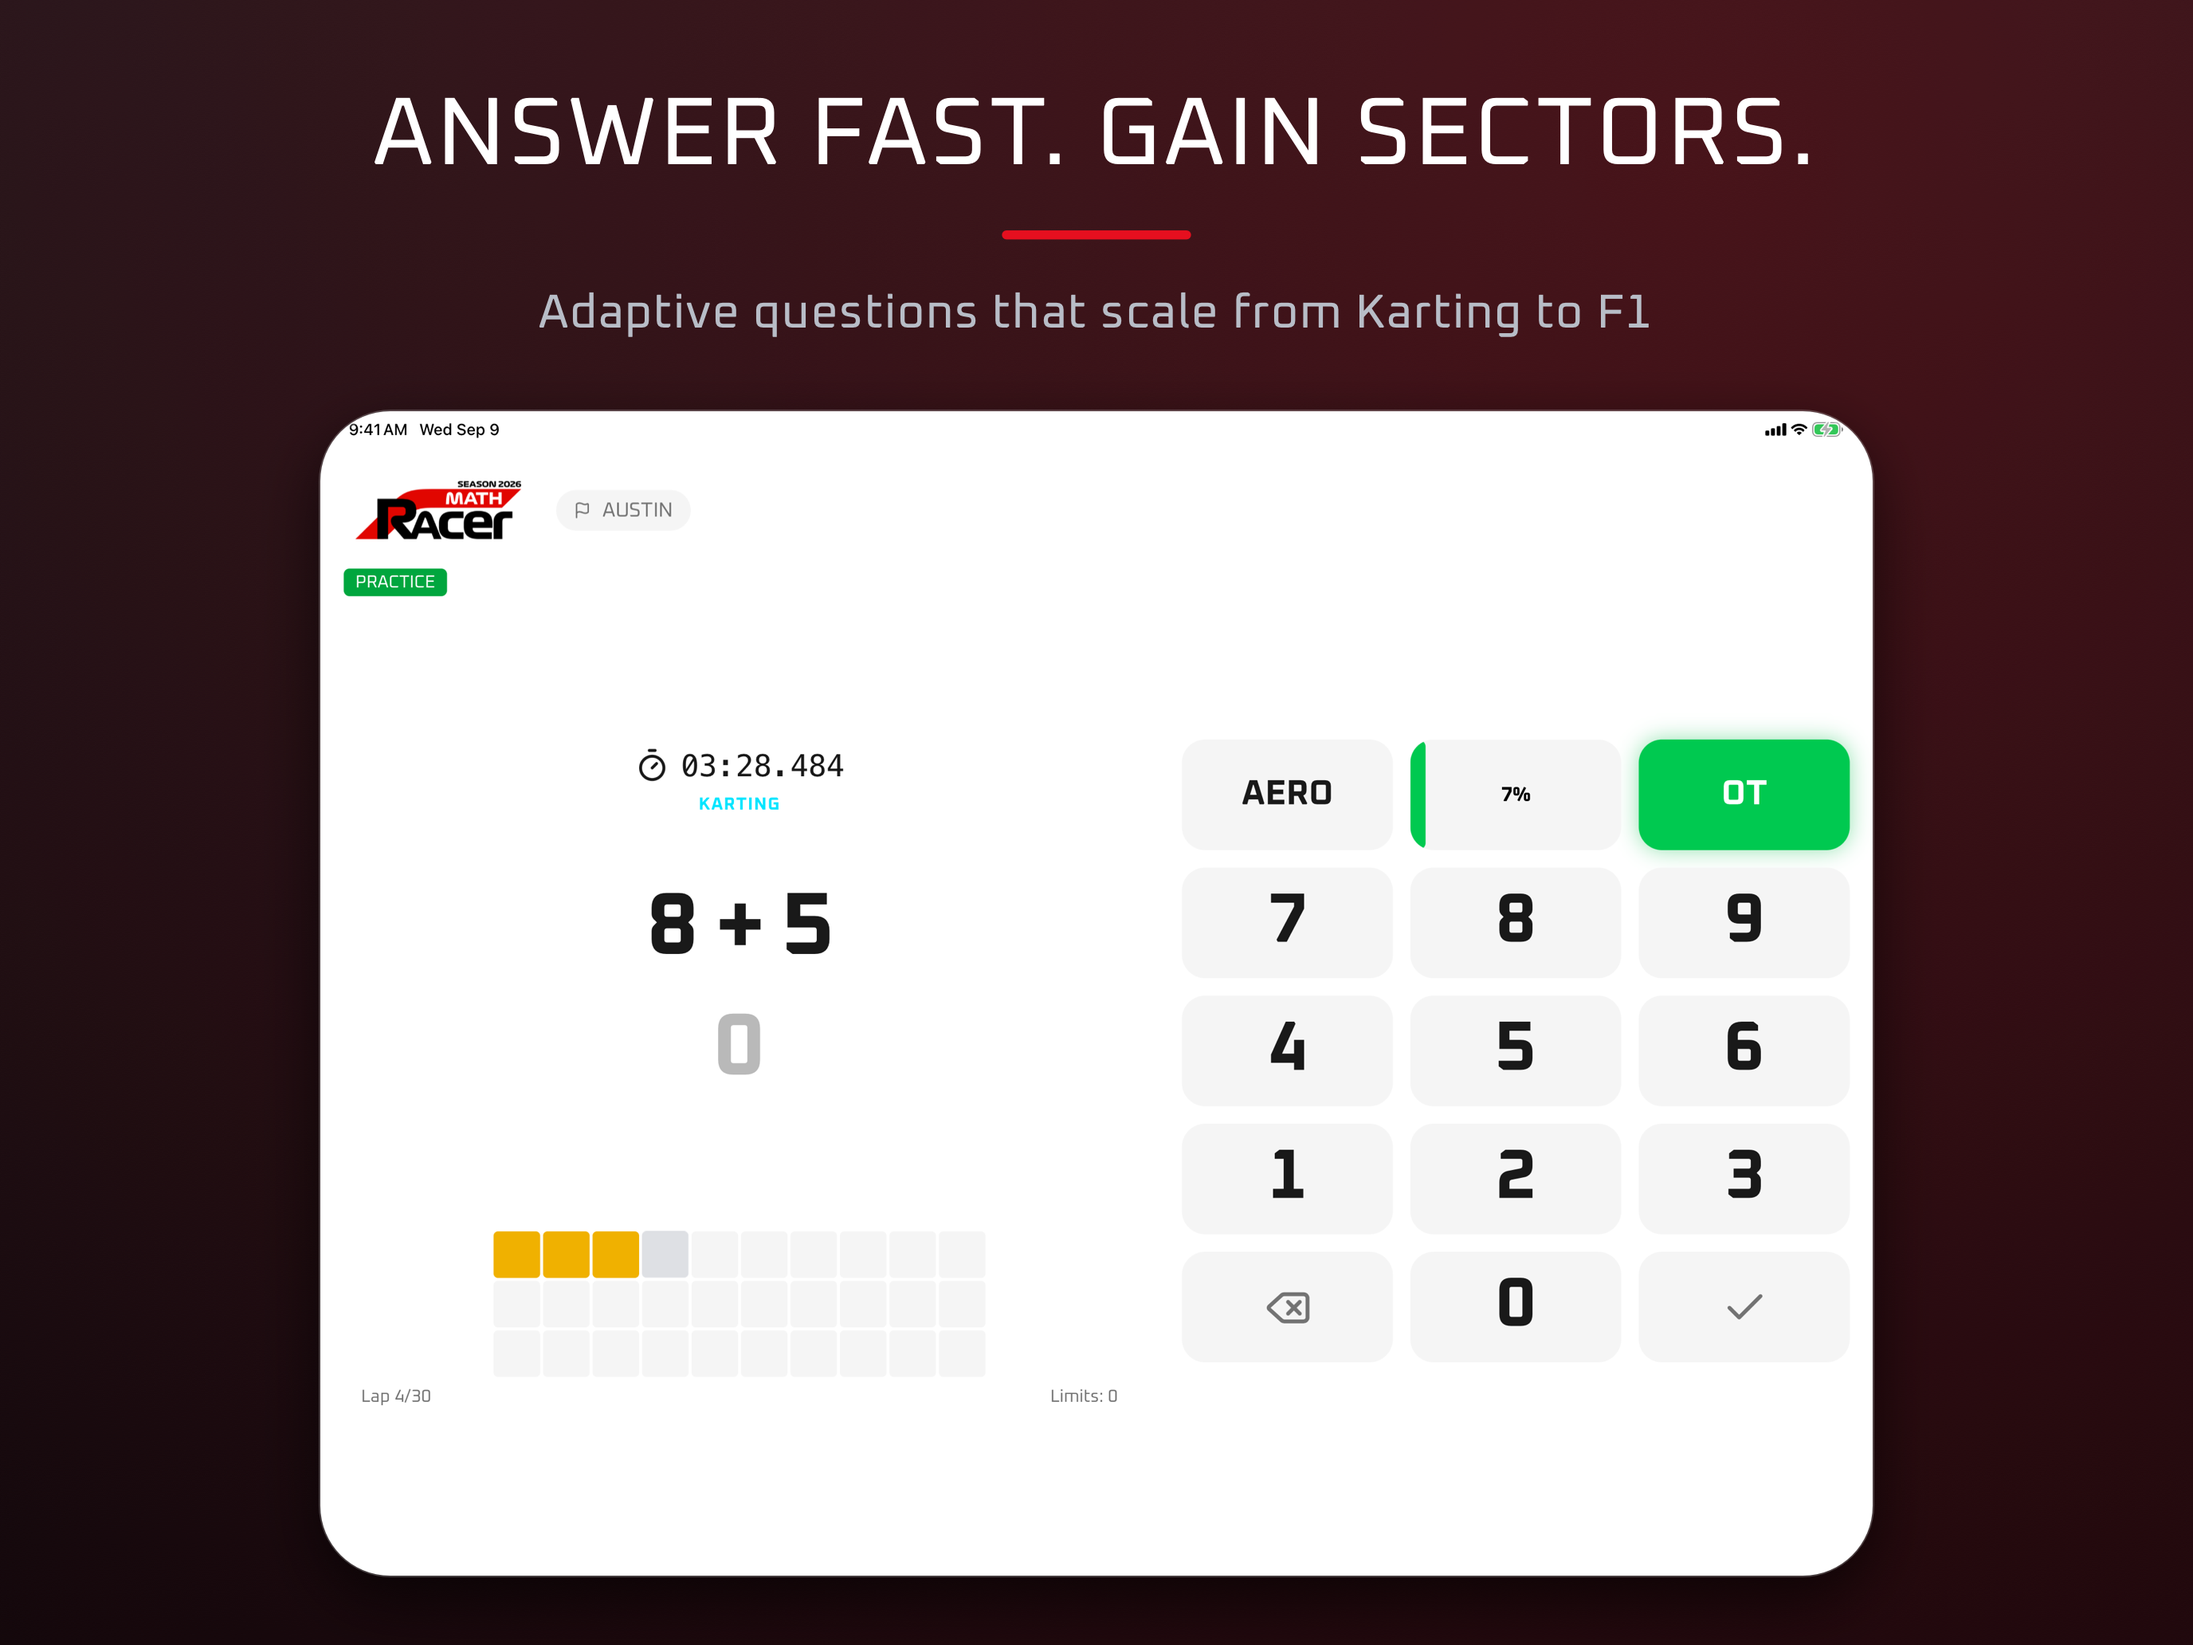
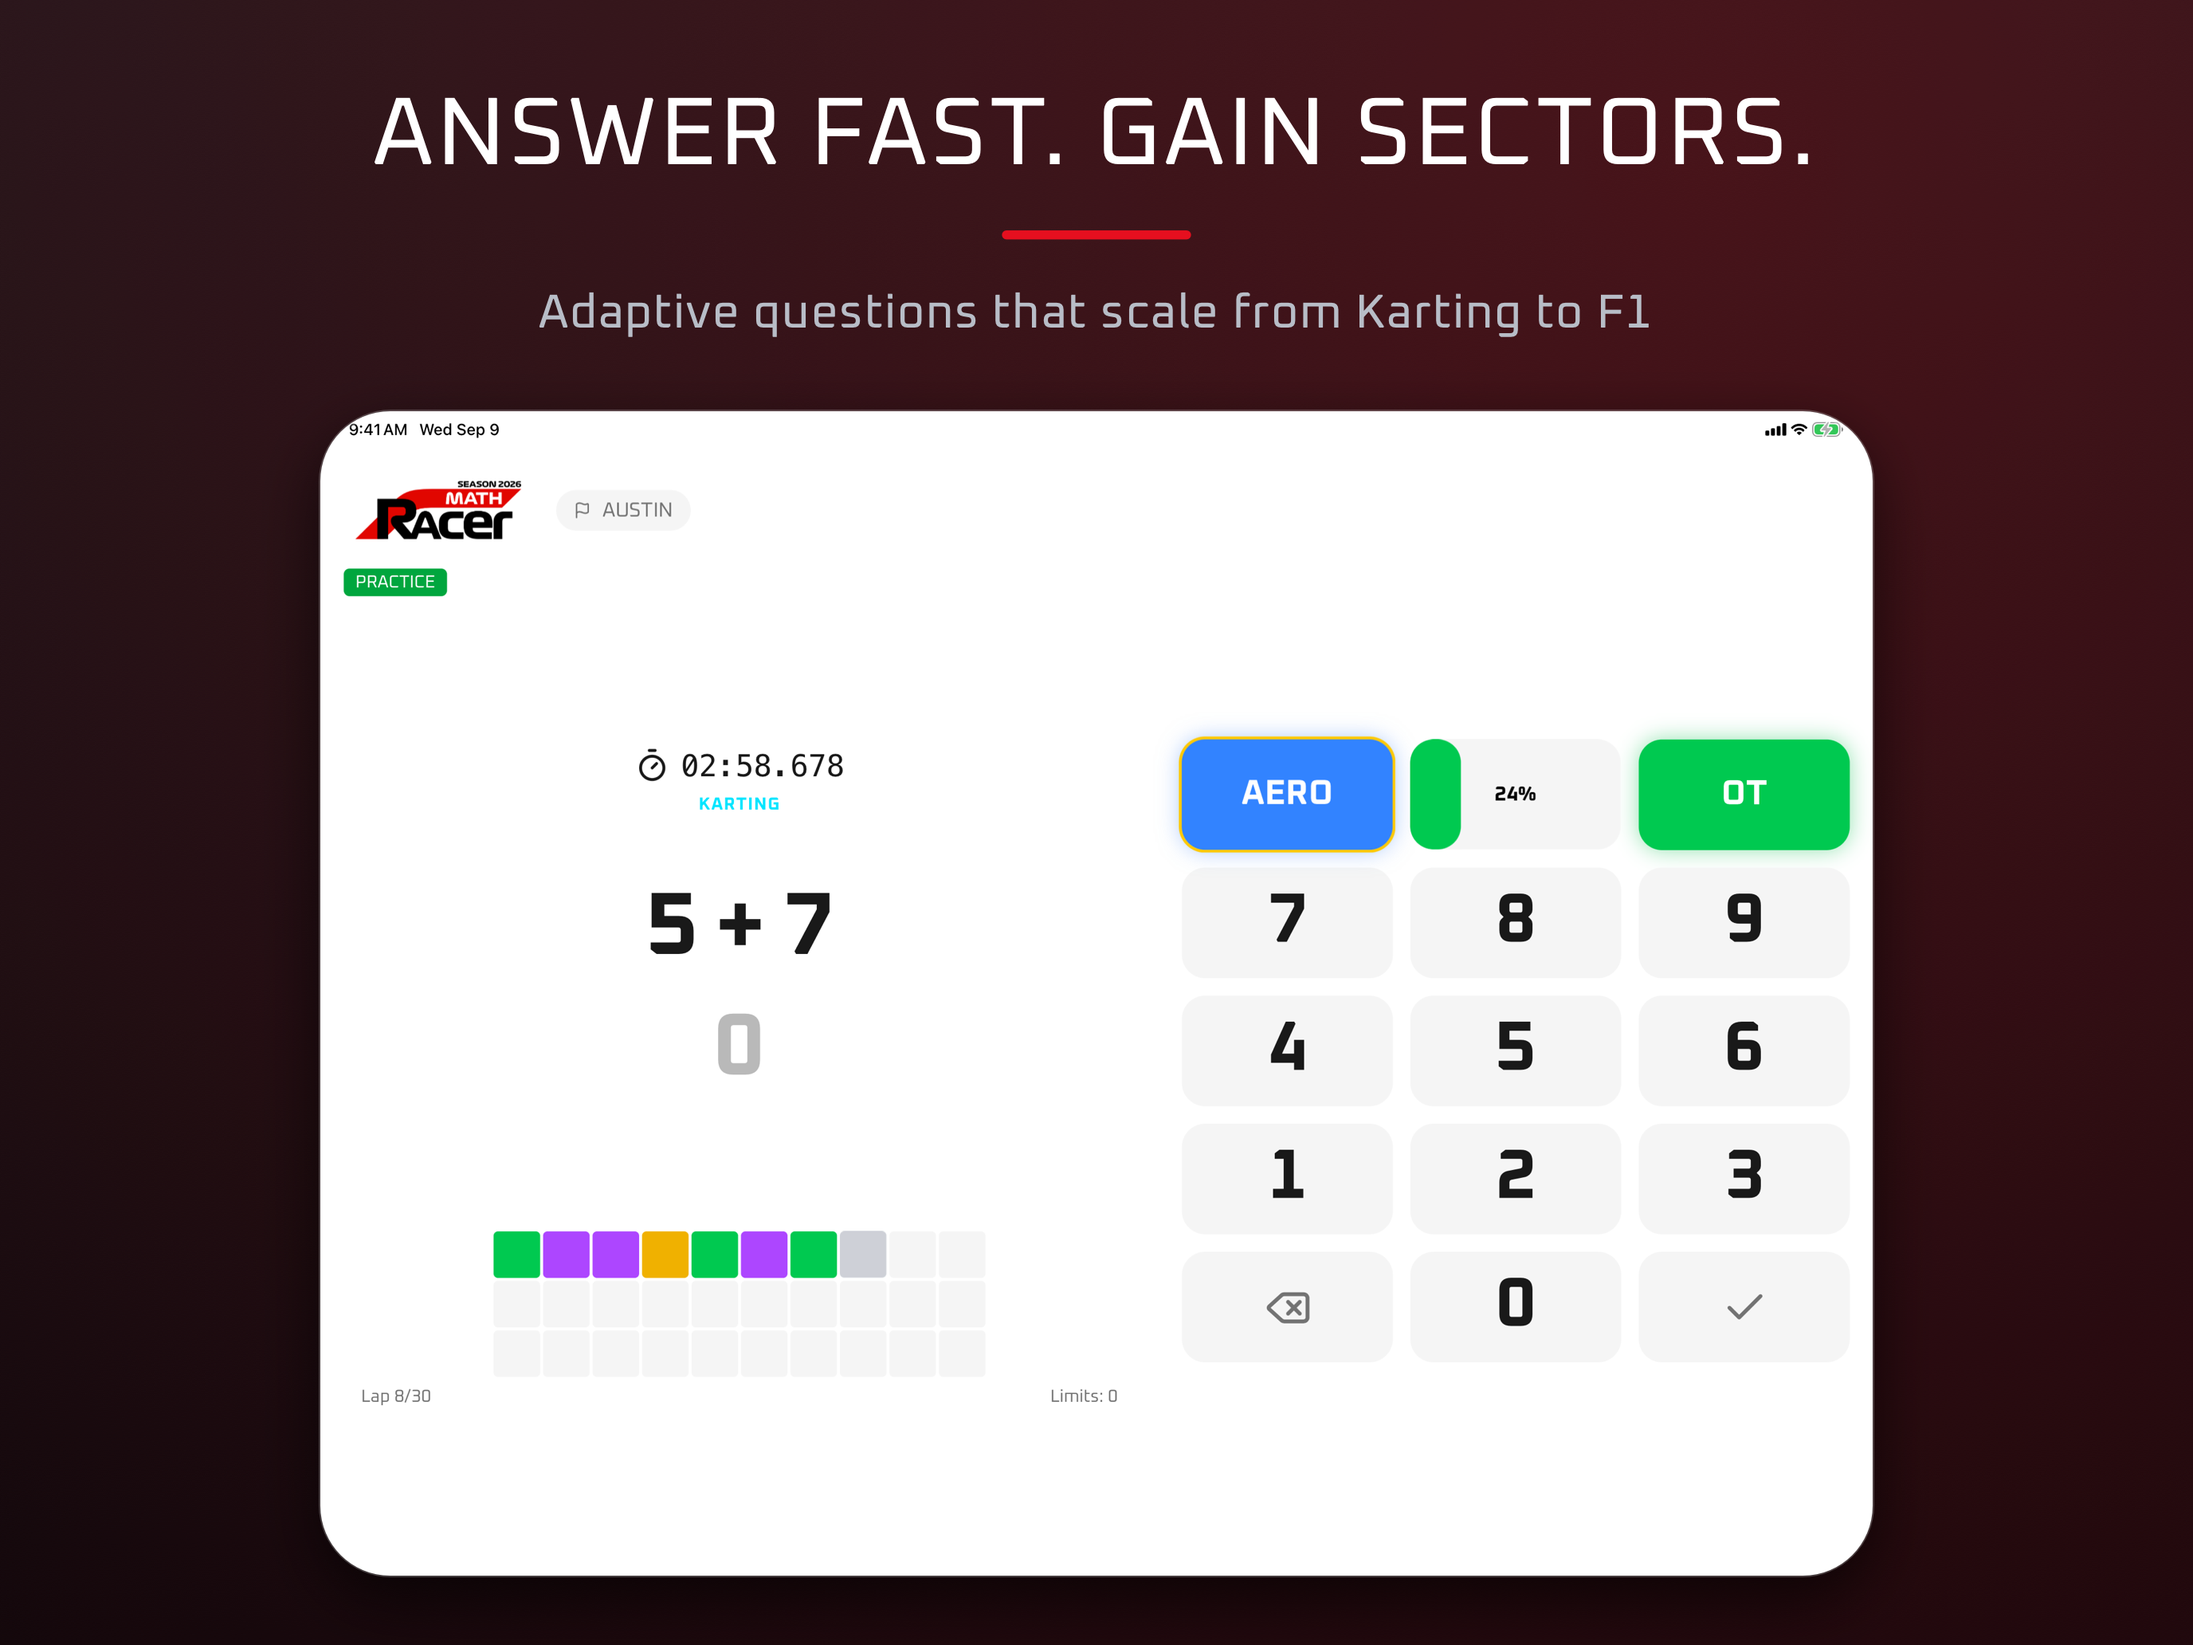
Retake the iPad race card with green sectors
The Austin retake of ipad_13/01_race.png showed only yellow sectors:
Practice colours each sector against the question's bot time (2-3 s at
Karting), and every answer through the simulator panel took longer. It is
retaken from a capture-only build whose practice colouring multiplies the
bot time by 12 (reverted, never committed), so the grid shows a mix:
green, purple, purple, yellow, green, purple, green at Lap 8/30, with an
AERO zone lit and OT ready.

README: the recipe, under the tricky screens.

Changed region(s): [[0.5312, 0.4341, 0.6875, 0.5271], [0.2188, 0.7442, 0.4062, 0.7752], [0.3438, 0.5581, 0.375, 0.5891]]

diff --git a/app_store/README.md b/app_store/README.md
@@ -89,5 +89,13 @@ Captions use Oxanium, the same font as the app.
   keep the clock low, and pause about 0.3 s before tapping ✓, since a tap right
   after a digit is sometimes dropped (Enter on the simulator keyboard doesn't
   submit). Leave with RETIRE → Yes: a DNF that submits nothing.
+- **iPad race card (`01`)** also needs a capture-only build, or its sectors all come
+  out yellow. Practice colours a sector against the question's bot time (purple under
+  half of it, green under it, yellow over), about 2–3 s at Karting, and each answer
+  through the simulator panel takes longer than that. So, temporarily, multiply
+  `question.botTime` in Game.tsx's practice colouring by 12, build, install, then
+  revert with `git checkout --`, rebuild and re-sync. Answering at a steady pace then
+  gives a mix of green and purple; wait about 45 s on one question for a yellow. The
+  2026-10-20 card stops at Lap 8/30: green, purple, purple, yellow, green, purple, green.
 - **App opens in a window** on the iPad (window controls top-left, wallpaper
   around it): tap the controls, then the green button, and it stays full screen.
